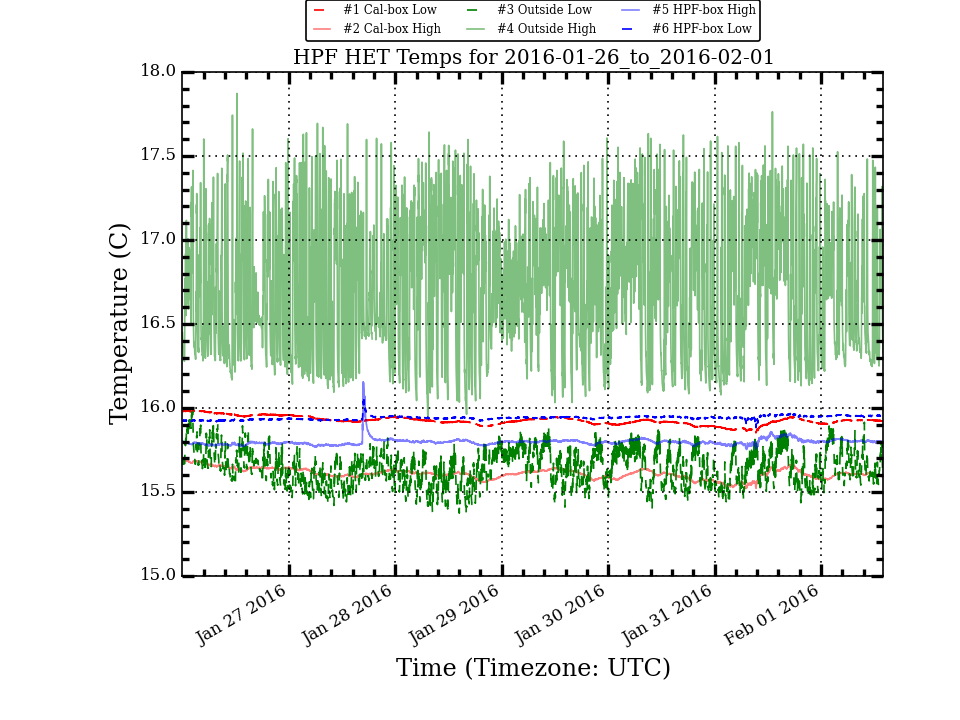
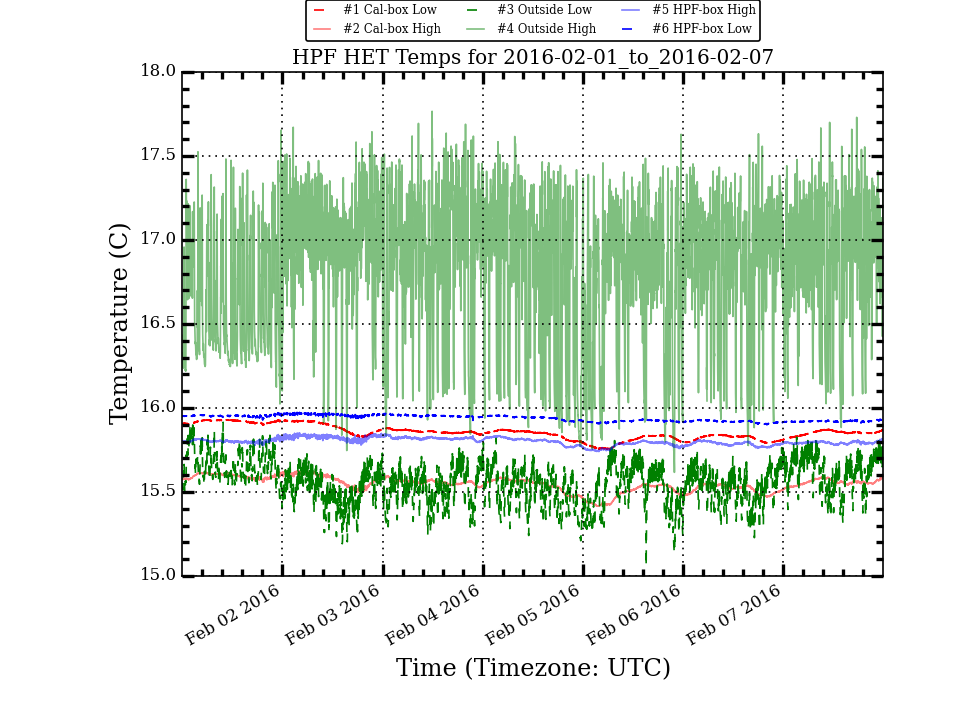
Update HPF Temp Plots

diff --git a/research/hpf_temps/plots/LakeShoreLogTotal_week_stats.html b/research/hpf_temps/plots/LakeShoreLogTotal_week_stats.html
@@ -10,56 +10,56 @@
  </TR>
  <TR>
   <TD>Cal_Low</TD>
-  <TD>15.926</TD>
-  <TD>0.025</TD>
-  <TD>15.925</TD>
-  <TD>15.984</TD>
-  <TD>15.852</TD>
-  <TD>0.132</TD>
+  <TD>15.855</TD>
+  <TD>0.042</TD>
+  <TD>15.853</TD>
+  <TD>15.930</TD>
+  <TD>15.754</TD>
+  <TD>0.176</TD>
  </TR>
  <TR>
   <TD>Cal_High</TD>
-  <TD>15.610</TD>
-  <TD>0.030</TD>
-  <TD>15.609</TD>
-  <TD>15.688</TD>
-  <TD>15.521</TD>
-  <TD>0.167</TD>
+  <TD>15.548</TD>
+  <TD>0.044</TD>
+  <TD>15.554</TD>
+  <TD>15.631</TD>
+  <TD>15.415</TD>
+  <TD>0.216</TD>
  </TR>
  <TR>
   <TD>Out_Low</TD>
-  <TD>15.641</TD>
-  <TD>0.107</TD>
-  <TD>15.636</TD>
-  <TD>15.979</TD>
-  <TD>15.372</TD>
-  <TD>0.607</TD>
+  <TD>15.550</TD>
+  <TD>0.126</TD>
+  <TD>15.565</TD>
+  <TD>15.915</TD>
+  <TD>15.055</TD>
+  <TD>0.860</TD>
  </TR>
  <TR>
   <TD>Out_High</TD>
-  <TD>16.687</TD>
-  <TD>0.379</TD>
-  <TD>16.677</TD>
-  <TD>17.872</TD>
-  <TD>15.950</TD>
-  <TD>1.922</TD>
+  <TD>16.807</TD>
+  <TD>0.414</TD>
+  <TD>16.924</TD>
+  <TD>17.766</TD>
+  <TD>15.617</TD>
+  <TD>2.149</TD>
  </TR>
  <TR>
   <TD>HPF_High</TD>
-  <TD>15.798</TD>
+  <TD>15.801</TD>
   <TD>0.021</TD>
-  <TD>15.797</TD>
-  <TD>16.156</TD>
-  <TD>15.753</TD>
-  <TD>0.403</TD>
+  <TD>15.801</TD>
+  <TD>15.852</TD>
+  <TD>15.741</TD>
+  <TD>0.111</TD>
  </TR>
  <TR>
   <TD>HPF_Low</TD>
-  <TD>15.941</TD>
-  <TD>0.011</TD>
-  <TD>15.942</TD>
-  <TD>16.080</TD>
-  <TD>15.883</TD>
-  <TD>0.197</TD>
+  <TD>15.939</TD>
+  <TD>0.018</TD>
+  <TD>15.944</TD>
+  <TD>15.975</TD>
+  <TD>15.900</TD>
+  <TD>0.075</TD>
  </TR>
 </TABLE>
